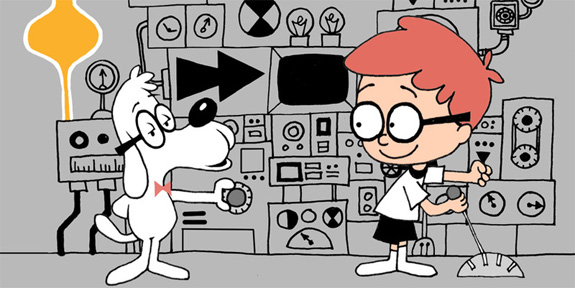
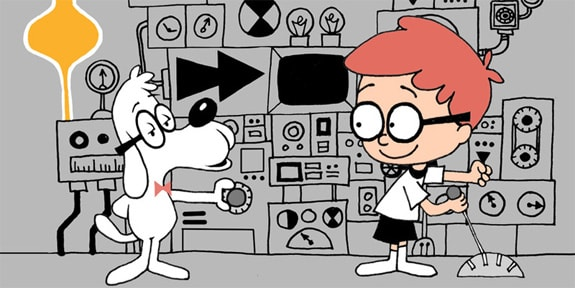
Added PrivateLink to DB, optimized images

diff --git a/FinalProjectAlpha/FinalProjectAlpha/Models/Archive.cs b/FinalProjectAlpha/FinalProjectAlpha/Models/Archive.cs
@@ -11,7 +11,7 @@ namespace FinalProjectAlpha.Models
 {
     using System;
     using System.Collections.Generic;
-    
+
     public partial class Archive
     {
         #region Constructors
@@ -28,6 +28,7 @@ namespace FinalProjectAlpha.Models
             ArchiveDate = DateTime.Today;
             TeamName = teamName;
             this.AspNetUser = aspNetUser;
+            PrivateLink = false;
         }
         public Archive()
         {
@@ -44,7 +45,7 @@ namespace FinalProjectAlpha.Models
         public string ProjectName { get; set; }
         public System.DateTime ArchiveDate { get; set; }
         public string TeamName { get; set; }
-    
+        public bool PrivateLink { get; set; }
         public virtual AspNetUser AspNetUser { get; set; }
         #endregion
     }
